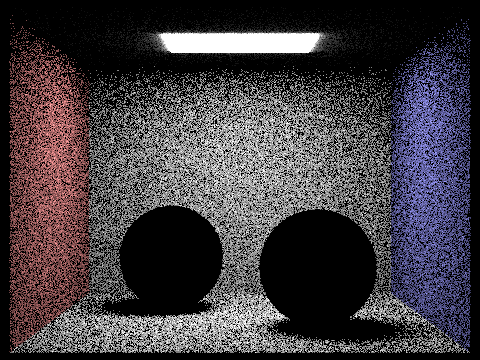
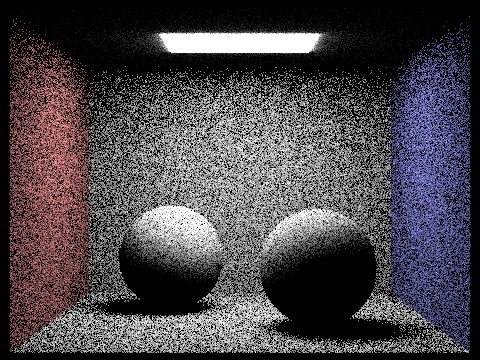
p4

diff --git a/hw3/index.html b/hw3/index.html
@@ -248,11 +248,11 @@ Compare the results between uniform hemisphere sampling and lighting sampling in
     <tr align="center">
       <td>
         <img src="images/CBspheres_H.png" align="middle" width="400px"/>
-        <figcaption>CBspheres.dae</figcaption>
+        <figcaption>CBspheres_lambertian.dae</figcaption>
       </td>
       <td>
         <img src="images/CBspheres2.png" align="middle" width="400px"/>
-        <figcaption>CBspheres.dae</figcaption>
+        <figcaption>CBspheres_lambertian.dae</figcaption>
       </td>
     </tr>
     <br>
@@ -314,7 +314,8 @@ You will probably want to use the instructional machines for the above renders i
   Walk through your implementation of the indirect lighting function.
 </h3>
 <p>
-    YOUR RESPONSE GOES HERE
+    At a high level, my at_least_one_bounce_radiance function works as follows:
+	First, I calculate the direct lighting on the current point using the one_bounce_radiance function. Next, I flip a coin to decide if I should continue recursing (continue probability is 65%). If so, I sample from the bsdf to find a direction to search indirectly. I cast a ray from the intersection point in this sampled direction. I then recursively call at_least_one_bounce_radiance on this new intersection. I calculate the contribution of the return value to the overall lighting using the reflection equation. Notably, I make sure to divide by both the bsdf sampling pdf, and by the continuation probability to ensure that my estimator is unbiased.
 </p>
 <br>
 
@@ -326,12 +327,12 @@ You will probably want to use the instructional machines for the above renders i
   <table style="width:100%">
     <tr align="center">
       <td>
-        <img src="images/your_file.png" align="middle" width="400px"/>
-        <figcaption>example1.dae</figcaption>
+        <img src="images/spheres_global.png" align="middle" width="400px"/>
+        <figcaption>CBspheres_lambertian.dae</figcaption>
       </td>
       <td>
-        <img src="images/your_file.png" align="middle" width="400px"/>
-        <figcaption>example2.dae</figcaption>
+        <img src="images/bench_global.png" align="middle" width="400px"/>
+        <figcaption>bench.dae</figcaption>
       </td>
     </tr>
   </table>
@@ -346,12 +347,12 @@ You will probably want to use the instructional machines for the above renders i
   <table style="width:100%">
     <tr align="center">
       <td>
-        <img src="images/your_file.png" align="middle" width="400px"/>
-        <figcaption>Only direct illumination (example1.dae)</figcaption>
+        <img src="images/spheres_direct.png" align="middle" width="400px"/>
+        <figcaption>Only direct illumination (CBspheres_lambertian.dae)</figcaption>
       </td>
       <td>
-        <img src="images/your_file.png" align="middle" width="400px"/>
-        <figcaption>Only indirect illumination (example1.dae)</figcaption>
+        <img src="images/spheres_indirect.png" align="middle" width="400px"/>
+        <figcaption>Only indirect illumination (CBspheres_lambertian.dae)</figcaption>
       </td>
     </tr>
   </table>
@@ -370,27 +371,27 @@ You will probably want to use the instructional machines for the above renders i
   <table style="width:100%">
     <tr align="center">
       <td>
-        <img src="images/your_file.png" align="middle" width="400px"/>
+        <img src="images/bunny0.png" align="middle" width="400px"/>
         <figcaption>max_ray_depth = 0 (CBbunny.dae)</figcaption>
       </td>
       <td>
-        <img src="images/your_file.png" align="middle" width="400px"/>
+        <img src="images/bunny1.png" align="middle" width="400px"/>
         <figcaption>max_ray_depth = 1 (CBbunny.dae)</figcaption>
       </td>
     </tr>
     <tr align="center">
       <td>
-        <img src="images/your_file.png" align="middle" width="400px"/>
+        <img src="images/bunny2.png" align="middle" width="400px"/>
         <figcaption>max_ray_depth = 2 (CBbunny.dae)</figcaption>
       </td>
       <td>
-        <img src="images/your_file.png" align="middle" width="400px"/>
+        <img src="images/bunny3.png" align="middle" width="400px"/>
         <figcaption>max_ray_depth = 3 (CBbunny.dae)</figcaption>
       </td>
     </tr>
     <tr align="center">
       <td>
-        <img src="images/your_file.png" align="middle" width="400px"/>
+        <img src="images/bunny100.png" align="middle" width="400px"/>
         <figcaption>max_ray_depth = 100 (CBbunny.dae)</figcaption>
       </td>
     </tr>
@@ -410,38 +411,38 @@ You will probably want to use the instructional machines for the above renders i
   <table style="width:100%">
     <tr align="center">
       <td>
-        <img src="images/your_file.png" align="middle" width="400px"/>
-        <figcaption>1 sample per pixel (example1.dae)</figcaption>
+        <img src="images/spheres1.png" align="middle" width="400px"/>
+        <figcaption>1 sample per pixel (CBspheres_lambertian.dae)</figcaption>
       </td>
       <td>
-        <img src="images/your_file.png" align="middle" width="400px"/>
-        <figcaption>2 samples per pixel (example1.dae)</figcaption>
-      </td>
-    </tr>
-    <tr align="center">
-      <td>
-        <img src="images/your_file.png" align="middle" width="400px"/>
-        <figcaption>4 samples per pixel (example1.dae)</figcaption>
-      </td>
-      <td>
-        <img src="images/your_file.png" align="middle" width="400px"/>
-        <figcaption>8 samples per pixel (example1.dae)</figcaption>
+        <img src="images/spheres2.png" align="middle" width="400px"/>
+        <figcaption>2 samples per pixel (CBspheres_lambertian.dae)</figcaption>
       </td>
     </tr>
     <tr align="center">
       <td>
-        <img src="images/your_file.png" align="middle" width="400px"/>
-        <figcaption>16 samples per pixel (example1.dae)</figcaption>
+        <img src="images/spheres4.png" align="middle" width="400px"/>
+        <figcaption>4 samples per pixel (CBspheres_lambertian.dae)</figcaption>
       </td>
       <td>
-        <img src="images/your_file.png" align="middle" width="400px"/>
-        <figcaption>64 samples per pixel (example1.dae)</figcaption>
+        <img src="images/spheres8.png" align="middle" width="400px"/>
+        <figcaption>8 samples per pixel (CBspheres_lambertian.dae)</figcaption>
       </td>
     </tr>
     <tr align="center">
       <td>
-        <img src="images/your_file.png" align="middle" width="400px"/>
-        <figcaption>1024 samples per pixel (example1.dae)</figcaption>
+        <img src="images/spheres16.png" align="middle" width="400px"/>
+        <figcaption>16 samples per pixel (CBspheres_lambertian.dae)</figcaption>
+      </td>
+      <td>
+        <img src="images/spheres64.png" align="middle" width="400px"/>
+        <figcaption>64 samples per pixel (CBspheres_lambertian.dae)</figcaption>
+      </td>
+    </tr>
+    <tr align="center">
+      <td>
+        <img src="images/spheres1024.png" align="middle" width="400px"/>
+        <figcaption>1024 samples per pixel (CBspheres_lambertian.dae)</figcaption>
       </td>
     </tr>
   </table>
